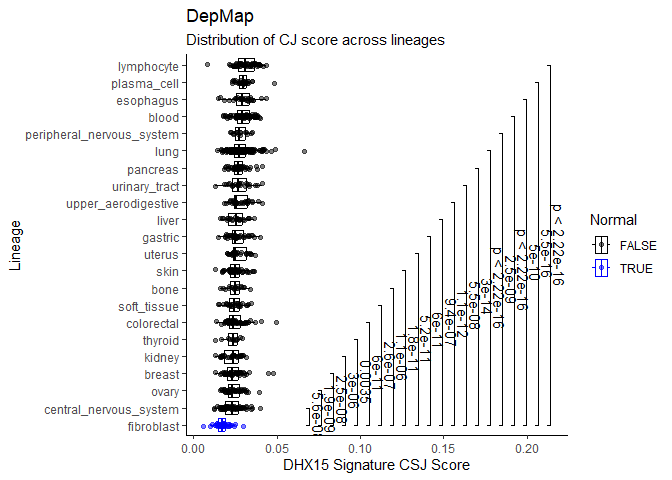
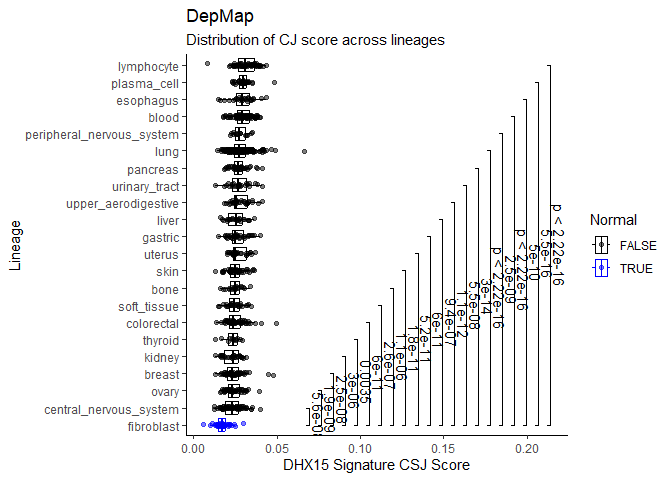
remove warning message

diff --git a/code/figure6_2.md b/code/figure6_2.md
@@ -1,8 +1,4 @@
 ``` r
-knitr::opts_chunk$set(echo = TRUE)
-```
-
-``` r
 # Load R libs ####
 library(ggplot2)
 library(ggpubr)
@@ -11,8 +7,6 @@ library(pheatmap)
 library(readxl)
 library(viridis)
 ```
-
-    ## Loading required package: viridisLite
 
 ## Figure 6
 
@@ -191,25 +185,7 @@ ggplot(aframe,
 
 ``` r
 score <- fread("../data/depmap/CSJ_signature_score_depmap.tsv")
-```
-
-    ## Warning in fread("../data/depmap/CSJ_signature_score_depmap.tsv"): Detected
-    ## 1 column names but the data has 2 columns (i.e. invalid file). Added 1 extra
-    ## default column name for the first column which is guessed to be row names or an
-    ## index. Use setnames() afterwards if this guess is not correct, or fix the file
-    ## write command that created the file to create a valid file.
-
-``` r
 sample_sra <- fread("../data/depmap/depmap_metadata.tsv")
-```
-
-    ## Warning in require_bit64_if_needed(ans): Some columns are type 'integer64'
-    ## but package bit64 is not installed. Those columns will print as strange
-    ## looking floating point data. There is no need to reload the data. Simply
-    ## install.packages('bit64') to obtain the integer64 print method and print the
-    ## data again.
-
-``` r
 cnv <- fread("../data/depmap/depmap_cnv.tsv")
 demeter2 <- fread("../data/depmap/depmap_demeter2.tsv")
 
@@ -275,12 +251,6 @@ ggplot(aframe[aframe$Group %in% c("Bottom 25%", "Top 25%"), ],
 ```
 
     ## [1] FALSE
-
-    ## Warning: Removed 199 rows containing non-finite values (`stat_boxplot()`).
-
-    ## Warning: Removed 199 rows containing non-finite values (`stat_signif()`).
-
-    ## Warning: Removed 199 rows containing missing values (`geom_point()`).
 
 ![](figure6_2_files/figure-markdown_github/Figure6_G-1.png) \### Figure
 6H
